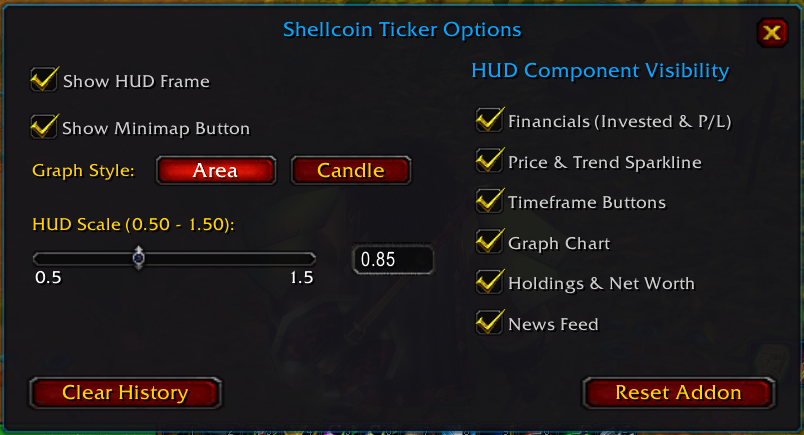
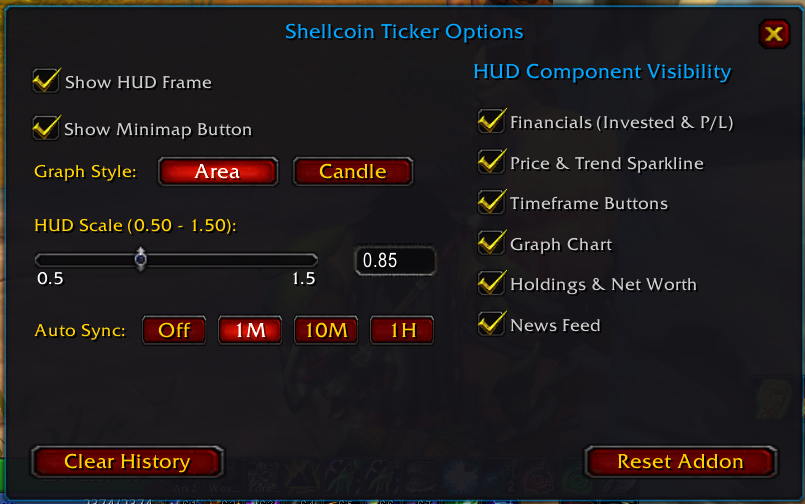
feat: implement silent auto price synchronization via configurable interval and chat filtering

diff --git a/README.md b/README.md
@@ -34,9 +34,10 @@
   - *Goblins of Gadgetzan Integration* (Price pumps)
   - *Mysterious Murloc Whales* (Price surges)
 - **Live Server Sync**: Automatically disables mock simulation and locks onto live server broadcast prices whenever chat patterns matching `SHELLCOINTICKER BUY/SELL PRICE` or `SHELLCOINTICKER PRICE HAS` gold/silver/copper formats are spotted in public or private channels.
+- **Silent Auto Price Sync**: Periodically runs the `.shellcoin` server command internally to fetch live prices (configurable to **Off**, **1M**, **10M**, or **1H**). Both the outgoing command and incoming server replies are silently filtered from the player's chat log.
 
 ### 5. Premium Two-Column Options UI
-- **Left Column**: General settings (Toggle HUD visibility, Toggle Minimap button, Graph style Area/Candle selector, and HUD scale slider).
+- **Left Column**: General settings (Toggle HUD visibility, Toggle Minimap button, Graph style Area/Candle selector, HUD scale slider, and **Auto Sync** interval selection).
 - **Right Column**: Direct HUD component visibility checkbox toggles.
 - **History Management**: Buttons to wipe simulated transaction history or perform a full addon DB reset.
 